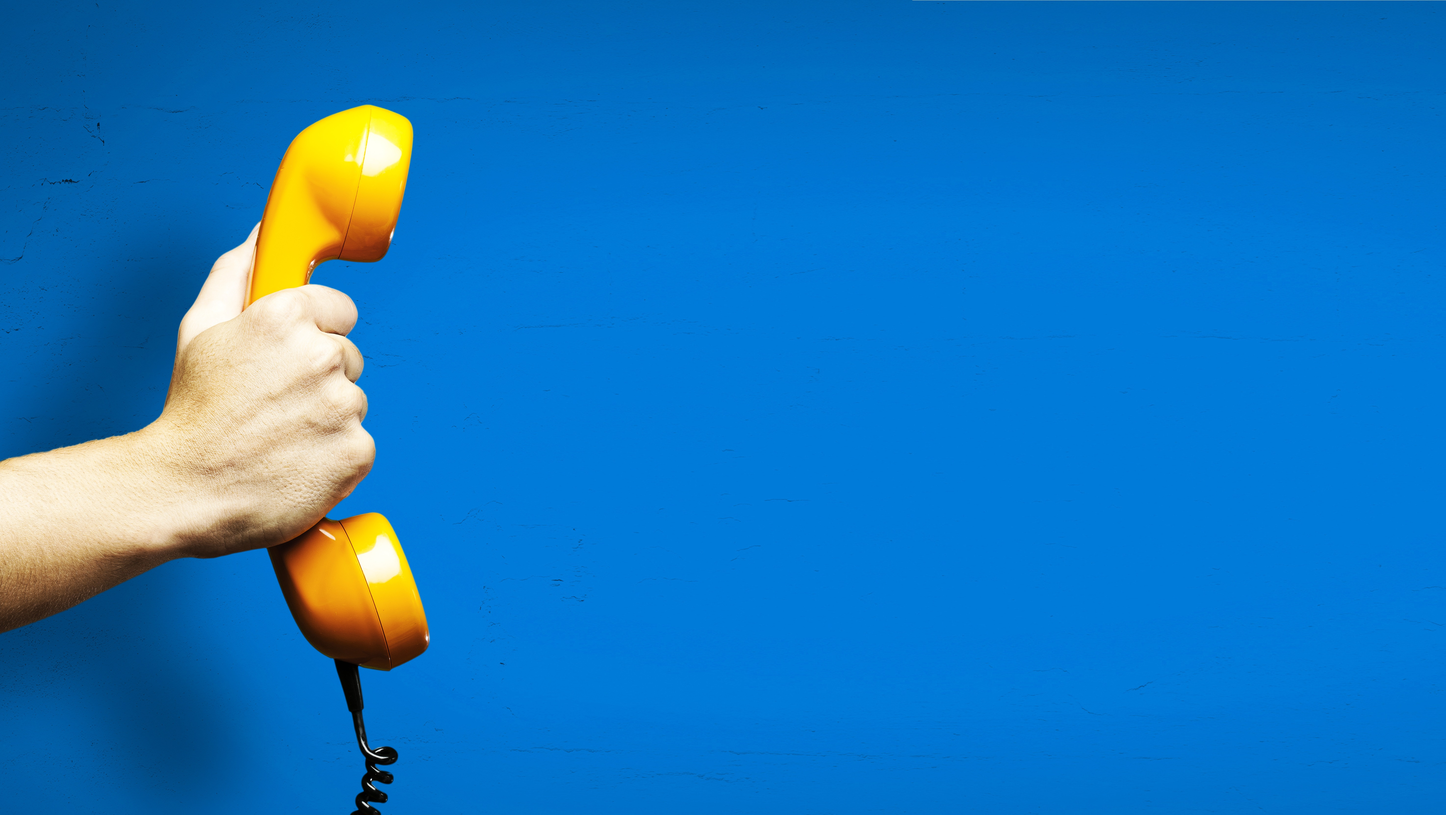
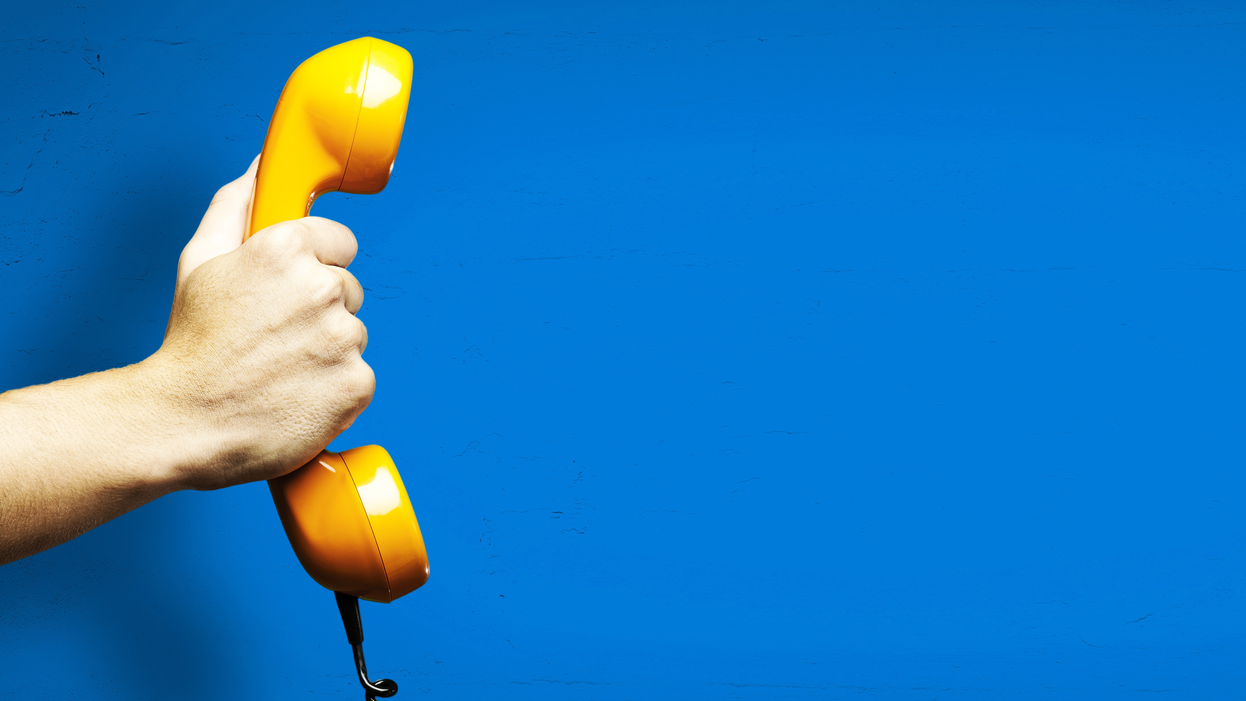
feat: Update hero sections to 16:9 aspect ratio and optimize images
Changes:
- Convert all hero sections from fixed heights (500px/600px/700px) to responsive 16:9 aspect ratio
- Updated 8 pages: home, contact, toolkit, how-we-help, meet-the-team, our-process, fantasy-football, resources
- Replace and optimize hero images for better performance and consistency
- Update image files: xlb-hero.png, contact.jpg, fantasy-football.jpeg, how-we-help.jpg, resources.JPG
- Remove old toolkit image files and add new toolsresources image

Hero sections now maintain consistent 16:9 aspect ratio across all screen sizes.

🤖 Generated with [Claude Code](https://claude.com/claude-code)

Changed region(s): [[0.0, 0.0312, 0.3421, 1.0], [0.0, 0.8411, 0.0622, 0.9034]]

diff --git a/app/how-we-help/our-process/page.tsx b/app/how-we-help/our-process/page.tsx
@@ -5,7 +5,7 @@ export default function OurProcessPage() {
   return (
     <div>
       {/* Hero - Gradient Background with Centered Content */}
-      <section className="relative bg-gradient-to-br from-xl-dark-blue via-primary-600 to-xl-bright-blue text-white overflow-hidden h-[500px] sm:h-[600px] md:h-[700px]">
+      <section className="relative bg-gradient-to-br from-xl-dark-blue via-primary-600 to-xl-bright-blue text-white overflow-hidden aspect-[16/9]">
         {/* Overlaid Content - Centered */}
         <div className="relative h-full flex items-center justify-center">
           <div className="max-w-4xl mx-auto px-4 sm:px-6 lg:px-8 w-full text-center">

diff --git a/app/page.tsx b/app/page.tsx
@@ -38,7 +38,7 @@ export default function HomePage() {
     <div>
       <StructuredData type="organization" />
       {/* Hero Section with Absolute Positioning - Matching Live Site */}
-      <section className="relative bg-gradient-to-r from-primary-600 to-primary-700 text-white overflow-hidden h-[500px] sm:h-[600px] md:h-[700px]">
+      <section className="relative bg-gradient-to-r from-primary-600 to-primary-700 text-white overflow-hidden aspect-[16/9]">
         {/* Background with Hero Image */}
         <div className="absolute inset-0 flex items-center justify-center">
           <div className="relative w-full h-full max-w-7xl mx-auto">

diff --git a/app/how-we-help/meet-the-team/page.tsx b/app/how-we-help/meet-the-team/page.tsx
@@ -6,7 +6,7 @@ export default function MeetTheTeamPage() {
   return (
     <div>
       {/* Hero - Gradient Background with Centered Content */}
-      <section className="relative bg-gradient-to-r from-xl-dark-blue to-xl-bright-blue text-white overflow-hidden h-[500px] sm:h-[600px] md:h-[700px]">
+      <section className="relative bg-gradient-to-r from-xl-dark-blue to-xl-bright-blue text-white overflow-hidden aspect-[16/9]">
         {/* Overlaid Content - Centered */}
         <div className="relative h-full flex items-center justify-center">
           <div className="max-w-4xl mx-auto px-4 sm:px-6 lg:px-8 w-full text-center">

diff --git a/app/fantasy-football/page.tsx b/app/fantasy-football/page.tsx
@@ -6,7 +6,7 @@ export default function FantasyFootballPage() {
     <div>
       {/* Hero Section - Background Image with Overlay */}
       <section
-        className="relative text-white overflow-hidden h-[500px] sm:h-[600px] md:h-[700px]"
+        className="relative text-white overflow-hidden aspect-[16/9]"
         style={{
           backgroundImage: 'url(/images/parallax/fantasy-football.jpeg)',
           backgroundSize: 'cover',

diff --git a/app/contact/page.tsx b/app/contact/page.tsx
@@ -20,7 +20,7 @@ function ContactPageContent() {
     <div>
       {/* Hero Section - Matching Live Site with Background Image */}
       <section
-        className="relative text-white overflow-hidden h-[500px] sm:h-[600px] md:h-[700px]"
+        className="relative text-white overflow-hidden aspect-[16/9]"
         style={{
           backgroundImage: 'url(/images/parallax/contact.jpg)',
           backgroundSize: 'cover',

diff --git a/app/toolkit/page.tsx b/app/toolkit/page.tsx
@@ -27,7 +27,7 @@ export default function ToolkitPage() {
     <div>
       {/* Hero - Background Image with Overlay */}
       <section
-        className="relative text-white overflow-hidden h-[500px] sm:h-[600px] md:h-[700px]"
+        className="relative text-white overflow-hidden aspect-[16/9]"
         style={{
           backgroundImage: 'url(/images/parallax/toolsresources.jpg)',
           backgroundSize: 'cover',

diff --git a/app/how-we-help/page.tsx b/app/how-we-help/page.tsx
@@ -6,7 +6,7 @@ export default function HowWeHelpPage() {
     <div>
       {/* Hero - Background Image with Overlay */}
       <section
-        className="relative text-white overflow-hidden h-[500px] sm:h-[600px] md:h-[700px]"
+        className="relative text-white overflow-hidden aspect-[16/9]"
         style={{
           backgroundImage: 'url(/images/parallax/how-we-help.jpg)',
           backgroundSize: 'cover',

diff --git a/app/resources/page.tsx b/app/resources/page.tsx
@@ -11,7 +11,7 @@ export default function ResourcesPage() {
   return (
     <div>
       <section
-        className="relative text-white overflow-hidden h-[500px] sm:h-[600px] md:h-[700px] bg-xl-dark-blue"
+        className="relative text-white overflow-hidden aspect-[16/9] bg-xl-dark-blue"
         style={{
           backgroundImage: 'url(/images/parallax/resources.JPG)',
           backgroundSize: 'contain',
